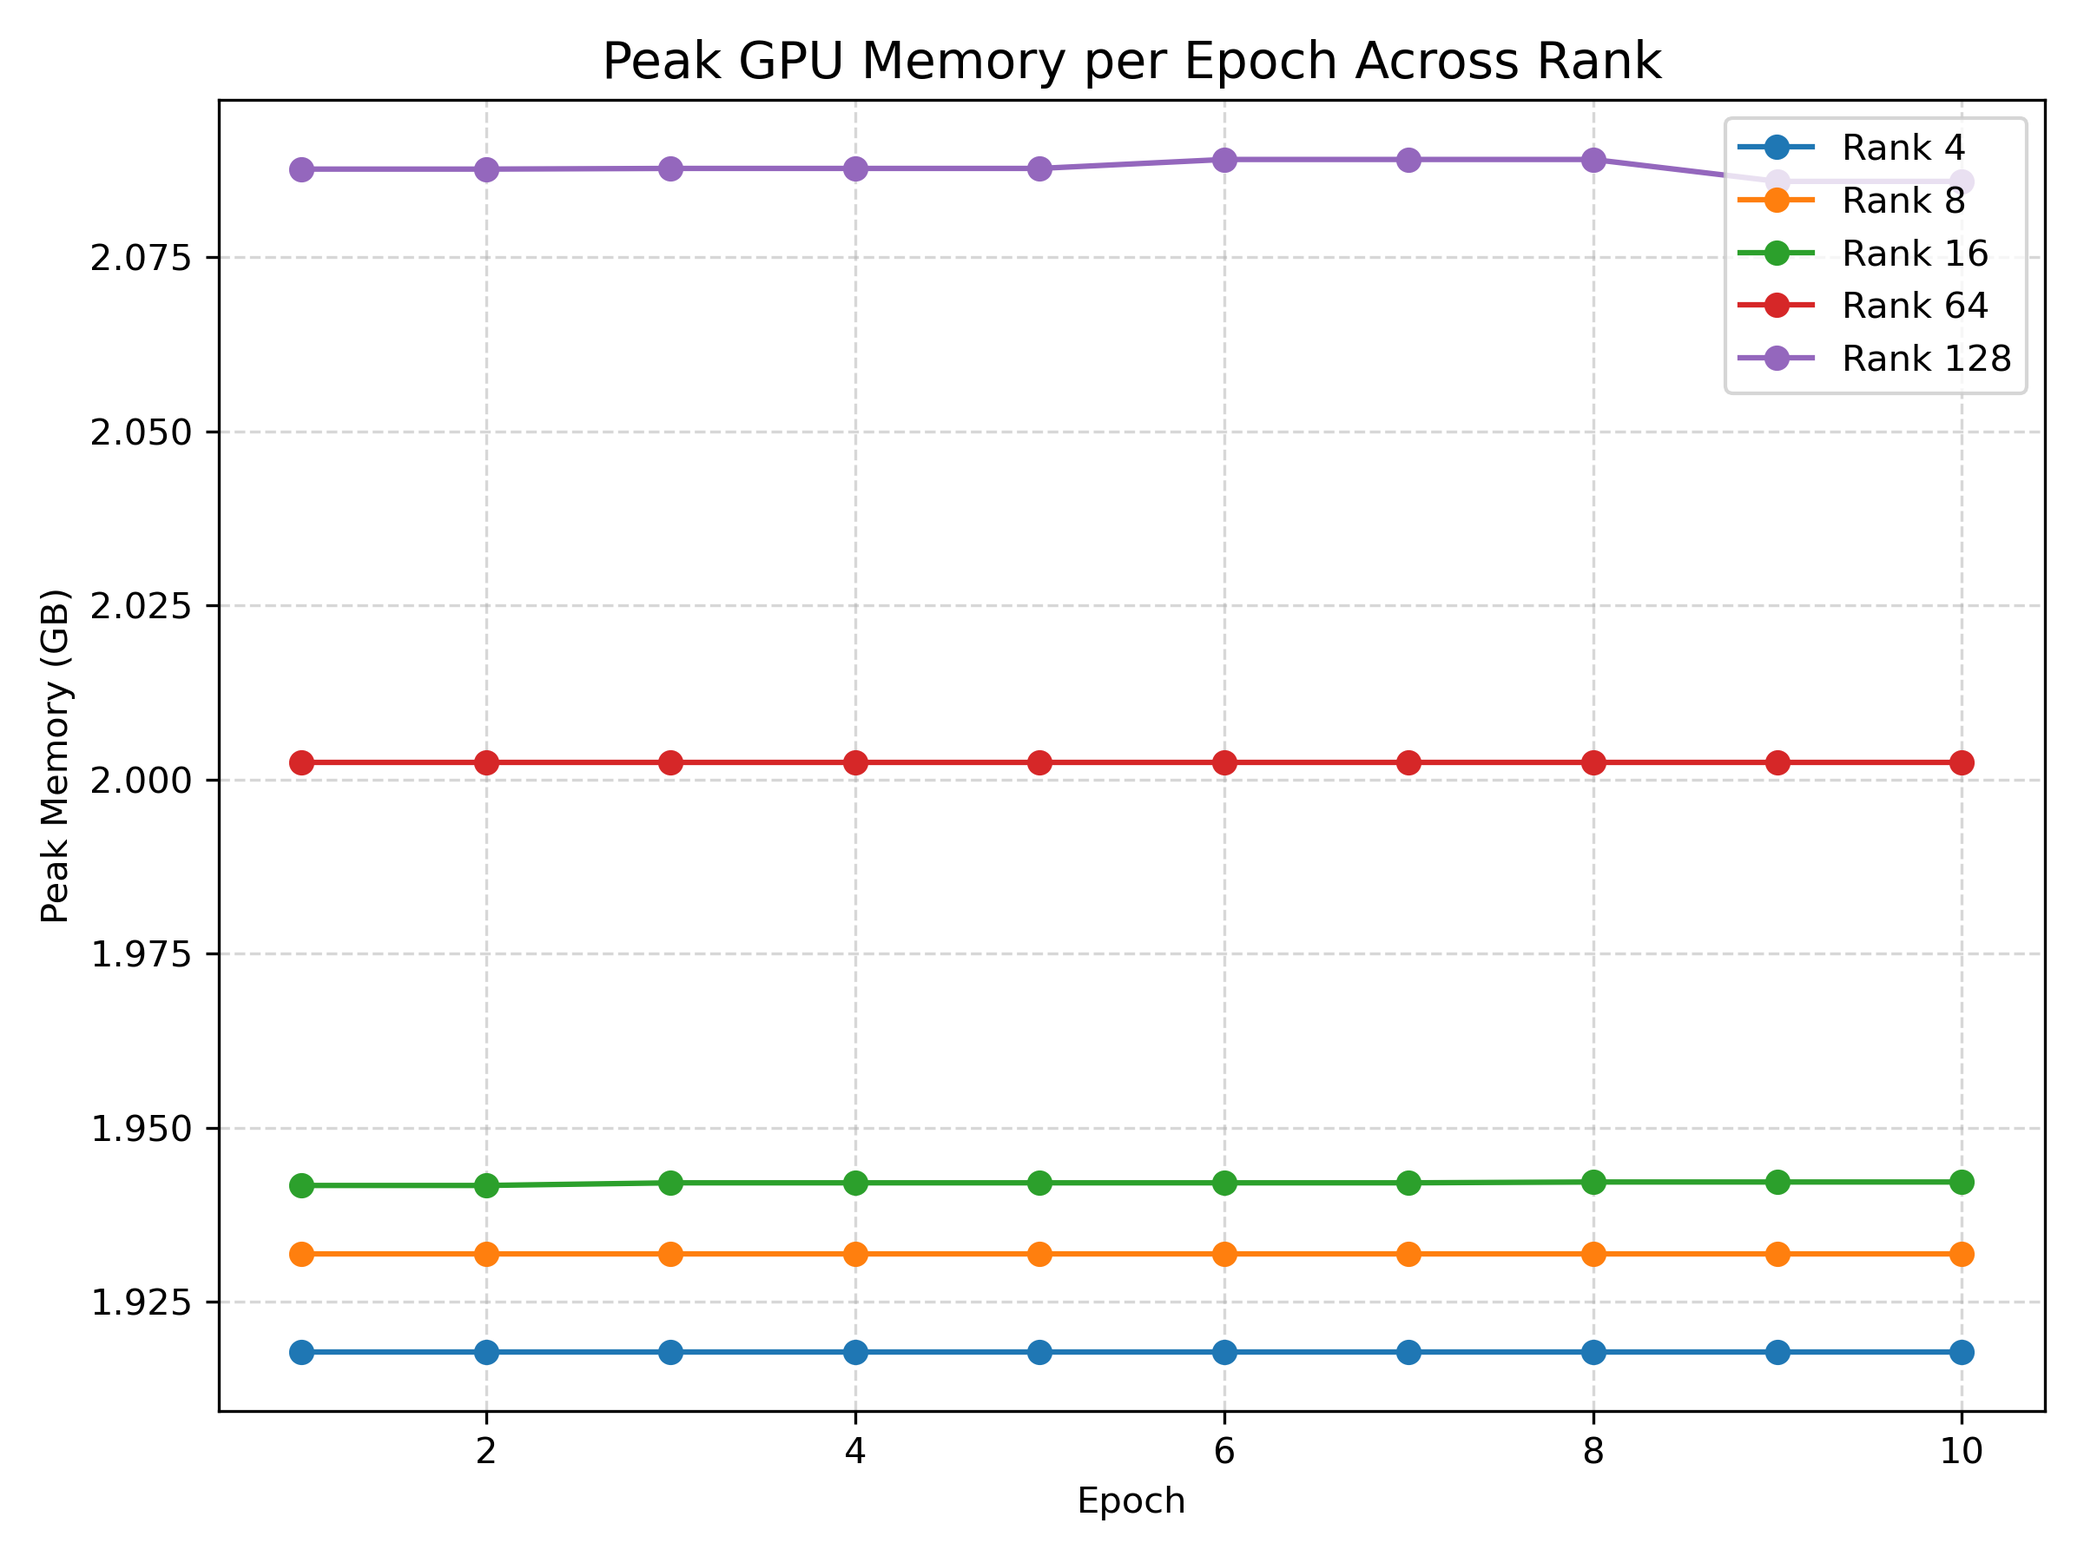
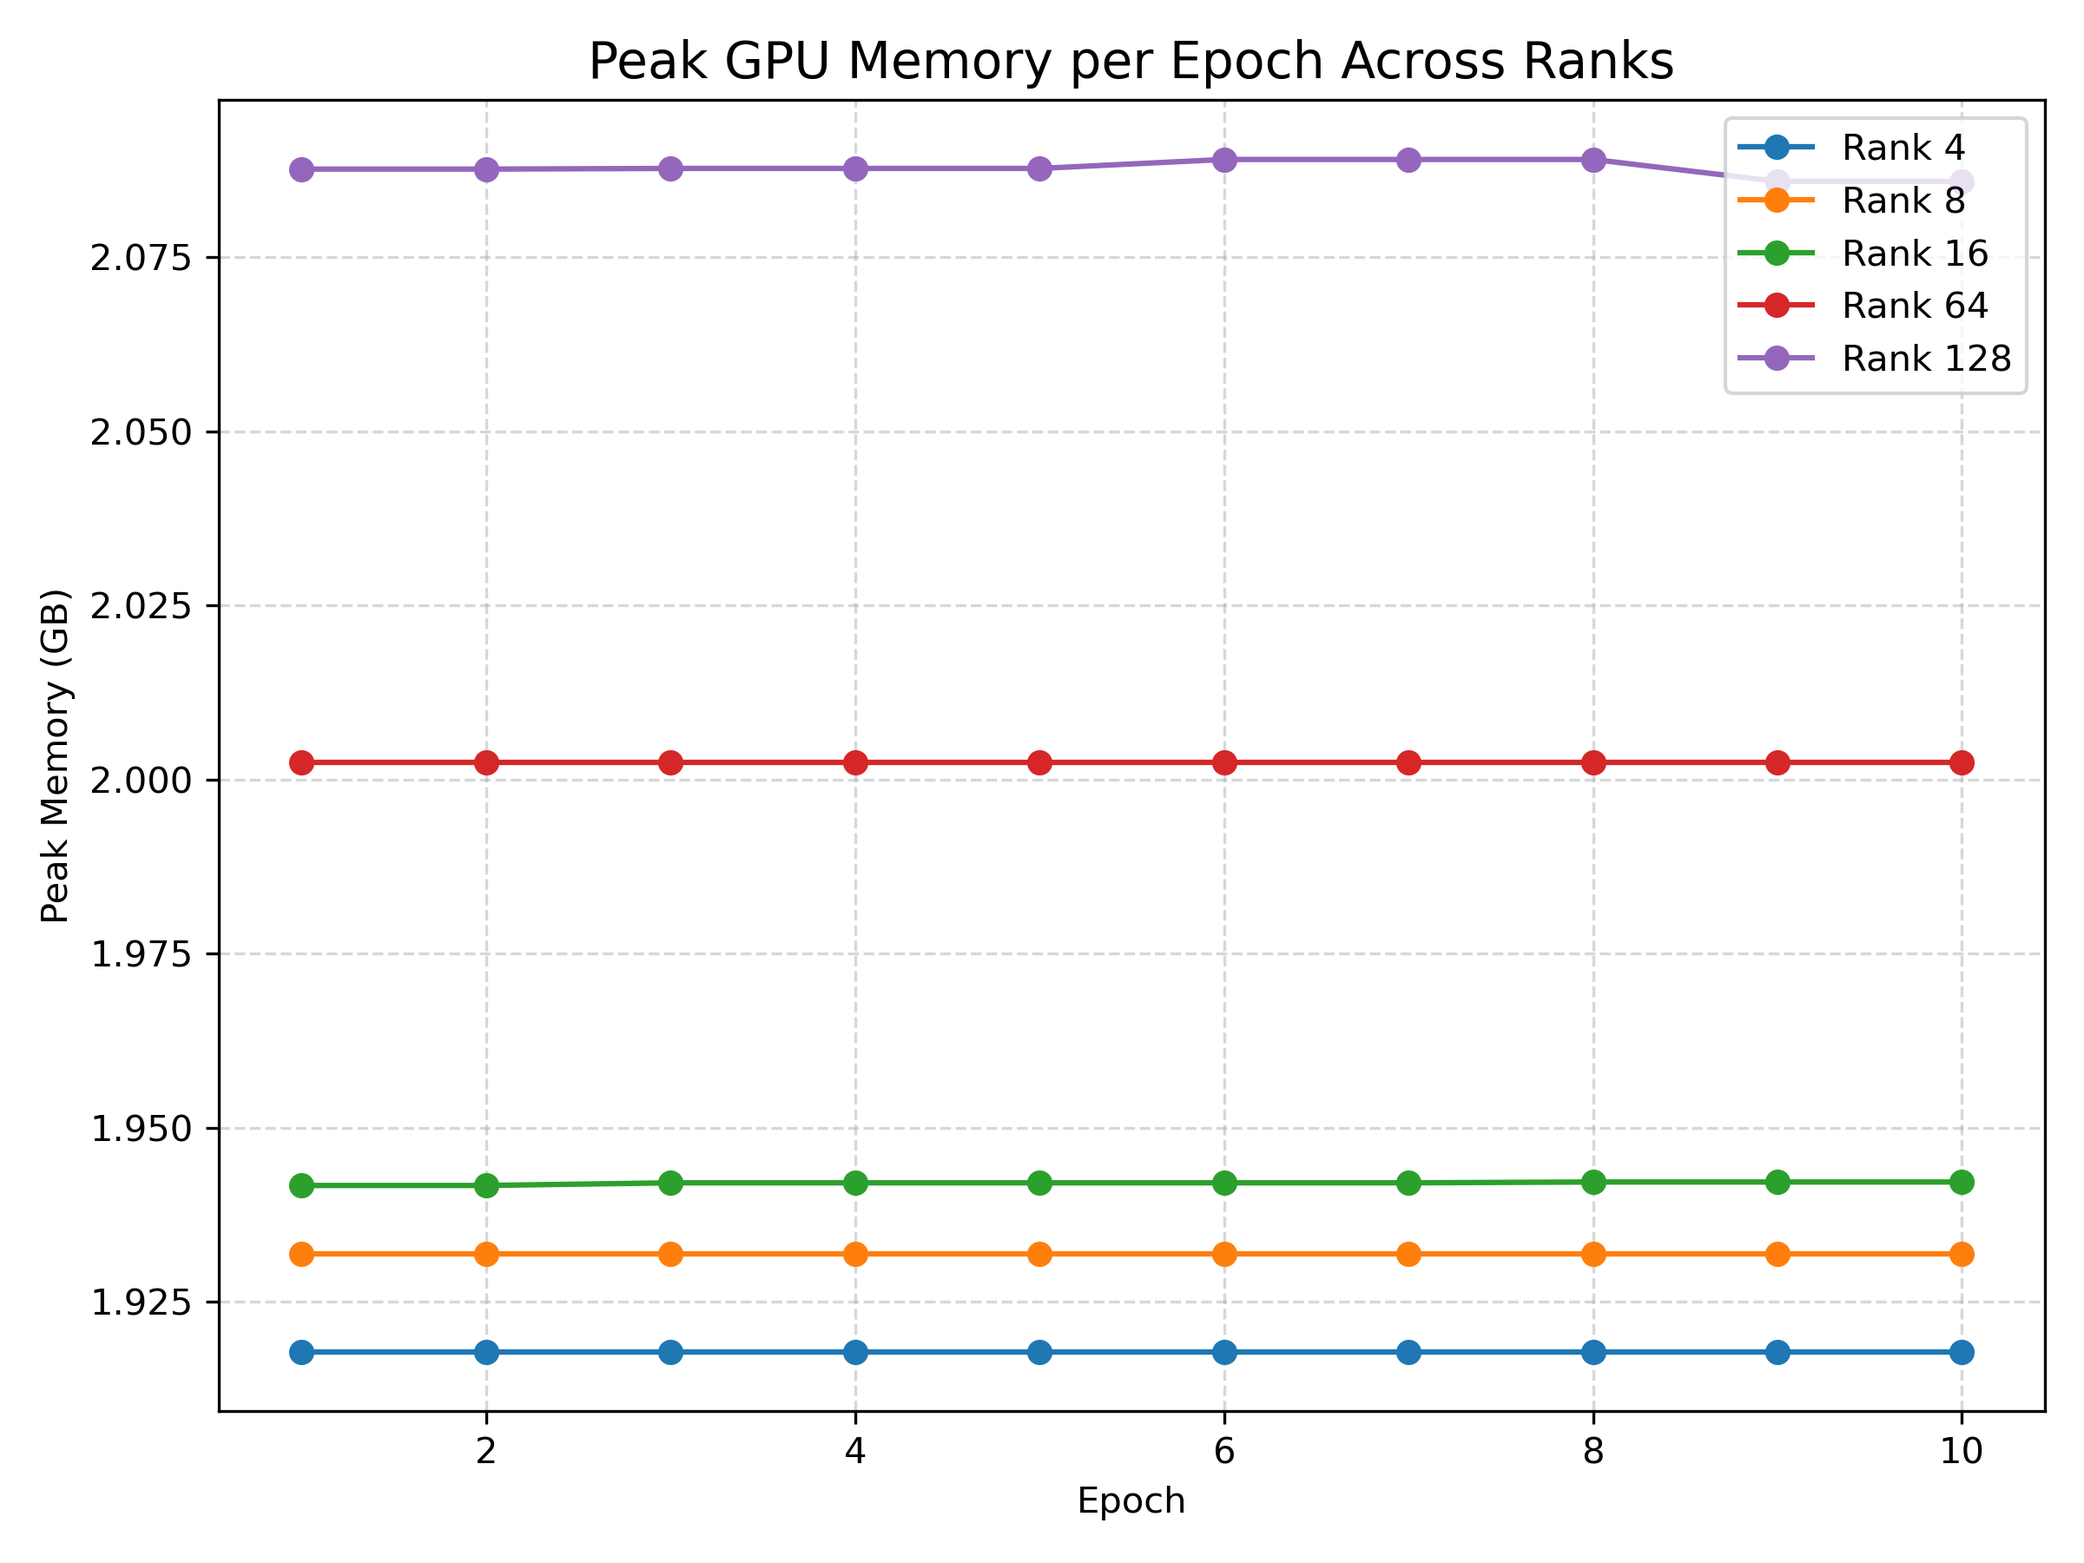
Updated plots

Changed region(s): [[0.2812, 0.0311, 0.8125, 0.0622]]

diff --git a/rSVD_SVT_Fixed_Rank/multi-rank-plot.py b/rSVD_SVT_Fixed_Rank/multi-rank-plot.py
@@ -7,21 +7,21 @@ import glob
 # CONFIG: all ranks to load
 # =========================================
 # Update this list with the ranks you've run
-# The script will look for directories like r0_1, r0_3, r0_5, etc.
-RANKS = [4,8,16,64,128]  # Update based on your runs
-BASE = "./imdbb/graph" # or ./sst/graph          
+# The script will look for directories like r4, r8, r16, etc.
+RANKS = [4, 8, 16, 64, 128]  # Update based on your runs
+BASE = "./imdbb/graph"          # <--- Script runs from graph/ directory, so BASE is "."
 
-os.makedirs(BASE + "/plots", exist_ok=True)
+os.makedirs("./plots", exist_ok=True)
 
 # Helper function to convert rank to directory name
-def rank_to_dir(rf):
-    """Convert rank (float) to directory name (e.g., 0.3 -> r0_3)"""
-    return f"r{rf}"
+def rank_to_dir(rank):
+    """Convert rank (integer) to directory name (e.g., 4 -> r4)"""
+    return f"r{rank}"
 
 # Verify we're in the right directory (should have r* subdirectories)
 if not glob.glob(os.path.join(BASE, "r*")):
     print(f"⚠ Warning: No r* directories found in '{BASE}'. Make sure you're running this script from the graph/ directory.")
-    print(f"   Expected to find directories like: r0_01, r0_05, etc.")
+    print(f"   Expected to find directories like: r4, r8, r16, etc.")
 
 # Auto-detect available rank directories if RANKS is empty
 if not RANKS:
@@ -31,12 +31,11 @@ if not RANKS:
     detected = []
     for d in dirs:
         dirname = os.path.basename(d)
-        if dirname.startswith("r") and os.path.isdir(d):
-            # Try to parse back to float
+        if dirname.startswith("r") and os.path.isdir(d) and not dirname.endswith("_opt"):
+            # Try to parse back to integer
             try:
-                rf_str = dirname[1:].replace("_", ".")
-                rf = float(rf_str)
-                detected.append(rf)
+                rank = int(dirname[1:])  # Remove 'r' prefix
+                detected.append(rank)
             except ValueError:
                 continue
     RANKS = sorted(detected)
@@ -45,6 +44,7 @@ if not RANKS:
 # Storage for comparison plots
 memory_summary = {}
 flops_summary = {}
+epoch_flops_summary = {}
 program_mem_summary = {}
 forward_mem_summary = {}
 forward_flops_summary = {}
@@ -54,17 +54,17 @@ forward_flops_summary = {}
 # =========================================
 data = {}
 
-for rf in RANKS:
-    rank_dir = os.path.join(BASE, rank_to_dir(rf))
+for rank in RANKS:
+    rank_dir = os.path.join(BASE, rank_to_dir(rank))
     
     if not os.path.exists(rank_dir):
-        print(f"⚠ Skipping rank {rf}: directory {rank_dir} not found")
+        print(f"⚠ Skipping rank {rank}: directory {rank_dir} not found")
         continue
     
     print(f"Loading data from {rank_dir}...")
     
     try:
-        data[rf] = {
+        data[rank] = {
             "epoch_mem": pd.read_csv(f"{rank_dir}/epoch_peak_memory.csv"),
             "flops": pd.read_csv(f"{rank_dir}/flops_profiler_stats.csv"),
             "total_mem": pd.read_csv(f"{rank_dir}/total_program_memory.csv"),
@@ -75,60 +75,67 @@ for rf in RANKS:
         forward_pass_dir = os.path.join(rank_dir, "forward_pass")
         if os.path.exists(forward_pass_dir):
             if os.path.exists(f"{forward_pass_dir}/peak_forward_memory.csv"):
-                data[rf]["forward_mem"] = pd.read_csv(f"{forward_pass_dir}/peak_forward_memory.csv")
+                data[rank]["forward_mem"] = pd.read_csv(f"{forward_pass_dir}/peak_forward_memory.csv")
             if os.path.exists(f"{forward_pass_dir}/forward_flops.csv"):
-                data[rf]["forward_flops"] = pd.read_csv(f"{forward_pass_dir}/forward_flops.csv")
+                data[rank]["forward_flops"] = pd.read_csv(f"{forward_pass_dir}/forward_flops.csv")
         
         # Summaries for comparison plots
-        memory_summary[rf] = data[rf]["epoch_mem"]["peak_memory_bytes"].max() / 1e9
+        memory_summary[rank] = data[rank]["epoch_mem"]["peak_memory_bytes"].max() / 1e9
         
         # Extract FLOPs (handle case where metric might not exist)
-        flops_row = data[rf]["flops"].loc[data[rf]["flops"]["metric"] == "step_flops"]
+        flops_row = data[rank]["flops"].loc[data[rank]["flops"]["metric"] == "step_flops"]
         if not flops_row.empty:
-            flops_summary[rf] = flops_row["value"].item()
+            flops_summary[rank] = flops_row["value"].item()
         else:
-            print(f"⚠ Warning: step_flops not found for rank {rf}")
+            print(f"⚠ Warning: step_flops not found for rank {rank}")
+        
+        # Extract epoch FLOPs
+        epoch_flops_row = data[rank]["flops"].loc[data[rank]["flops"]["metric"] == "epoch_flops"]
+        if not epoch_flops_row.empty:
+            epoch_flops_summary[rank] = epoch_flops_row["value"].item()
+        else:
+            print(f"⚠ Warning: epoch_flops not found for rank {rank}")
             
         # Extract total program memory
-        total_mem_row = data[rf]["total_mem"].loc[data[rf]["total_mem"]["metric"] == "program_total_peak_memory"]
+        total_mem_row = data[rank]["total_mem"].loc[data[rank]["total_mem"]["metric"] == "program_total_peak_memory"]
         if not total_mem_row.empty:
-            program_mem_summary[rf] = total_mem_row["value_bytes"].item() / 1e9
+            program_mem_summary[rank] = total_mem_row["value_bytes"].item() / 1e9
         else:
-            print(f"⚠ Warning: program_total_peak_memory not found for rank {rf}")
+            print(f"⚠ Warning: program_total_peak_memory not found for rank {rank}")
         
-        if "forward_mem" in data[rf]:
-            forward_mem_summary[rf] = (
-                data[rf]["forward_mem"]
-                .loc[data[rf]["forward_mem"]["metric"] == "peak_memory", "value_bytes"]
+        if "forward_mem" in data[rank]:
+            forward_mem_summary[rank] = (
+                data[rank]["forward_mem"]
+                .loc[data[rank]["forward_mem"]["metric"] == "peak_memory", "value_bytes"]
                 .item() / 1e9
             )
         
-        if "forward_flops" in data[rf]:
-            forward_flops_summary[rf] = (
-                data[rf]["forward_flops"]
-                .loc[data[rf]["forward_flops"]["metric"] == "forward_flops", "value"]
+        if "forward_flops" in data[rank]:
+            forward_flops_summary[rank] = (
+                data[rank]["forward_flops"]
+                .loc[data[rank]["forward_flops"]["metric"] == "forward_flops", "value"]
                 .item()
             )
         
-        print(f"✓ Loaded data for rank {rf}")
+        print(f"✓ Loaded data for rank {rank}")
     except Exception as e:
-        print(f"⚠ Error loading data for rank {rf}: {e}")
+        print(f"⚠ Error loading data for rank {rank}: {e}")
         continue
 
 if not data:
     print("ERROR: No data found! Make sure you've run training and have CSV files in the graph directories.")
-    print(f"Expected directories: {[rank_to_dir(rf) for rf in RANKS]}")
+    print(f"Expected directories: {[rank_to_dir(r) for r in RANKS]}")
     exit(1)
 
 # =========================================
 # PLOT 1 — Loss curves for all ranks
 # =========================================
 plt.figure(figsize=(8,6))
-for rf in RANKS:
-    if rf not in data:
+for rank in RANKS:
+    if rank not in data:
         continue
-    df = data[rf]["loss"]
-    label = f"Rank {rf}"
+    df = data[rank]["loss"]
+    label = f"Rank {rank}"
     # Convert empty strings to NaN for numeric columns
     df["train_loss"] = pd.to_numeric(df["train_loss"], errors="coerce")
     df["eval_loss"] = pd.to_numeric(df["eval_loss"], errors="coerce")
@@ -144,7 +151,7 @@ plt.ylabel("Loss")
 plt.grid(True, linestyle="--", alpha=0.5)
 plt.legend()
 plt.tight_layout()
-plt.savefig(BASE + "/plots/loss_across_ranks.png", dpi=300)
+plt.savefig("./plots/loss_across_ranks.png", dpi=300)
 plt.close()
 print("✓ Saved loss_across_ranks.png")
 
@@ -152,51 +159,73 @@ print("✓ Saved loss_across_ranks.png")
 # PLOT 2 — Peak GPU Memory per Epoch (all ranks)
 # =========================================
 plt.figure(figsize=(8,6))
-for rf in RANKS:
-    if rf not in data:
+for rank in RANKS:
+    if rank not in data:
         continue
-    df = data[rf]["epoch_mem"]
-    plt.plot(df["epoch"], df["peak_memory_bytes"] / 1e9, marker="o", label=f"Rank {rf}")
+    df = data[rank]["epoch_mem"]
+    plt.plot(df["epoch"], df["peak_memory_bytes"] / 1e9, marker="o", label=f"Rank {rank}")
 
-plt.title("Peak GPU Memory per Epoch Across Rank", fontsize=14)
+plt.title("Peak GPU Memory per Epoch Across Ranks", fontsize=14)
 plt.xlabel("Epoch")
 plt.ylabel("Peak Memory (GB)")
 plt.grid(True, linestyle="--", alpha=0.5)
 plt.legend()
 plt.tight_layout()
-plt.savefig(BASE + "/plots/peak_memory_per_epoch_across_ranks.png", dpi=300)
+plt.savefig("./plots/peak_memory_per_epoch_across_ranks.png", dpi=300)
 plt.close()
 print("✓ Saved peak_memory_per_epoch_across_ranks.png")
 
 # =========================================
-# PLOT 3 — FLOPs vs Rank
+# PLOT 3 — FLOPs per Step vs Rank (Bar Graph)
 # =========================================
 if flops_summary:
     plt.figure(figsize=(8,5))
-    rfs = sorted(flops_summary.keys())
-    plt.plot(rfs, [flops_summary[rf] / 1e12 for rf in rfs], marker="o", linewidth=2, markersize=8)
+    ranks_sorted = sorted(flops_summary.keys())
+    values = [flops_summary[r] / 1e12 for r in ranks_sorted]
+    labels = [f"r{r}" for r in ranks_sorted]
+    plt.bar(labels, values, color=plt.cm.viridis(range(len(ranks_sorted))))
     plt.xlabel("Rank")
     plt.ylabel("FLOPs per Step (TFLOPs)")
-    plt.title("Compute Cost vs rSVD Rank")
-    plt.grid(True, linestyle="--", alpha=0.5)
+    plt.title("Compute Cost per Step vs rSVD Rank")
+    plt.grid(axis="y", linestyle="--", alpha=0.5)
     plt.tight_layout()
-    plt.savefig(BASE + "/plots/flops_vs_rank.png", dpi=300)
+    plt.savefig("./plots/flops_vs_rank.png", dpi=300)
     plt.close()
     print("✓ Saved flops_vs_rank.png")
 
 # =========================================
-# PLOT 4 — Peak GPU Memory vs Rank
+# PLOT 3b — Epoch FLOPs vs Rank (Bar Graph)
+# =========================================
+if epoch_flops_summary:
+    plt.figure(figsize=(8,5))
+    ranks_sorted = sorted(epoch_flops_summary.keys())
+    values = [epoch_flops_summary[r] / 1e15 for r in ranks_sorted]
+    labels = [f"r{r}" for r in ranks_sorted]
+    plt.bar(labels, values, color=plt.cm.plasma(range(len(ranks_sorted))))
+    plt.xlabel("Rank")
+    plt.ylabel("FLOPs per Epoch (PFLOPs)")
+    plt.title("Compute Cost per Epoch vs rSVD Rank")
+    plt.grid(axis="y", linestyle="--", alpha=0.5)
+    plt.tight_layout()
+    plt.savefig("./plots/epoch_flops_vs_rank.png", dpi=300)
+    plt.close()
+    print("✓ Saved epoch_flops_vs_rank.png")
+
+# =========================================
+# PLOT 4 — Peak GPU Memory vs Rank (Bar Graph)
 # =========================================
 if memory_summary:
     plt.figure(figsize=(8,5))
-    rfs = sorted(memory_summary.keys())
-    plt.plot(rfs, [memory_summary[rf] for rf in rfs], marker="o", linewidth=2, markersize=8)
+    ranks_sorted = sorted(memory_summary.keys())
+    values = [memory_summary[r] for r in ranks_sorted]
+    labels = [f"r{r}" for r in ranks_sorted]
+    plt.bar(labels, values, color=plt.cm.coolwarm(range(len(ranks_sorted))))
     plt.xlabel("Rank")
     plt.ylabel("Peak Memory (GB)")
     plt.title("Peak GPU Memory vs rSVD Rank")
-    plt.grid(True, linestyle="--", alpha=0.5)
+    plt.grid(axis="y", linestyle="--", alpha=0.5)
     plt.tight_layout()
-    plt.savefig(BASE + "/plots/peak_memory_vs_rank.png", dpi=300)
+    plt.savefig("./plots/peak_memory_vs_rank.png", dpi=300)
     plt.close()
     print("✓ Saved peak_memory_vs_rank.png")
 
@@ -205,14 +234,14 @@ if memory_summary:
 # =========================================
 if program_mem_summary:
     plt.figure(figsize=(8,5))
-    rfs = sorted(program_mem_summary.keys())
-    plt.plot(rfs, [program_mem_summary[rf] for rf in rfs], marker="o", linewidth=2, markersize=8)
+    ranks_sorted = sorted(program_mem_summary.keys())
+    plt.plot(ranks_sorted, [program_mem_summary[r] for r in ranks_sorted], marker="o", linewidth=2, markersize=8)
     plt.xlabel("Rank")
     plt.ylabel("Memory (GB)")
     plt.title("Total Program Peak Memory vs Rank")
     plt.grid(True, linestyle="--", alpha=0.5)
     plt.tight_layout()
-    plt.savefig(BASE + "/plots/total_program_memory_vs_rank.png", dpi=300)
+    plt.savefig("./plots/total_program_memory_vs_rank.png", dpi=300)
     plt.close()
     print("✓ Saved total_program_memory_vs_rank.png")
 
@@ -221,14 +250,14 @@ if program_mem_summary:
 # =========================================
 if forward_mem_summary:
     plt.figure(figsize=(8,5))
-    rfs = sorted(forward_mem_summary.keys())
-    plt.plot(rfs, [forward_mem_summary[rf] for rf in rfs], marker="o", linewidth=2, markersize=8, color="green")
+    ranks_sorted = sorted(forward_mem_summary.keys())
+    plt.plot(ranks_sorted, [forward_mem_summary[r] for r in ranks_sorted], marker="o", linewidth=2, markersize=8, color="green")
     plt.xlabel("Rank")
     plt.ylabel("Peak Forward Memory (GB)")
     plt.title("Forward Pass Peak Memory vs Rank")
     plt.grid(True, linestyle="--", alpha=0.5)
     plt.tight_layout()
-    plt.savefig(BASE + "/plots/forward_memory_vs_rank.png", dpi=300)
+    plt.savefig("./plots/forward_memory_vs_rank.png", dpi=300)
     plt.close()
     print("✓ Saved forward_memory_vs_rank.png")
 
@@ -237,16 +266,16 @@ if forward_mem_summary:
 # =========================================
 if forward_flops_summary:
     plt.figure(figsize=(8,5))
-    rfs = sorted(forward_flops_summary.keys())
-    plt.plot(rfs, [forward_flops_summary[rf] / 1e9 for rf in rfs], marker="o", linewidth=2, markersize=8, color="purple")
+    ranks_sorted = sorted(forward_flops_summary.keys())
+    plt.plot(ranks_sorted, [forward_flops_summary[r] / 1e9 for r in ranks_sorted], marker="o", linewidth=2, markersize=8, color="purple")
     plt.xlabel("Rank")
     plt.ylabel("Forward FLOPs (GFLOPs)")
     plt.title("Forward Pass FLOPs vs Rank")
     plt.grid(True, linestyle="--", alpha=0.5)
     plt.tight_layout()
-    plt.savefig(BASE + "/plots/forward_flops_vs_rank.png", dpi=300)
+    plt.savefig("./plots/forward_flops_vs_rank.png", dpi=300)
     plt.close()
     print("✓ Saved forward_flops_vs_rank.png")
 
-print(f"\n🔥 All multi-rank rSVD plots saved to: " + BASE + "/plots/")
+print(f"\n🔥 All multi-rank rSVD plots saved to: ./plots")
 
